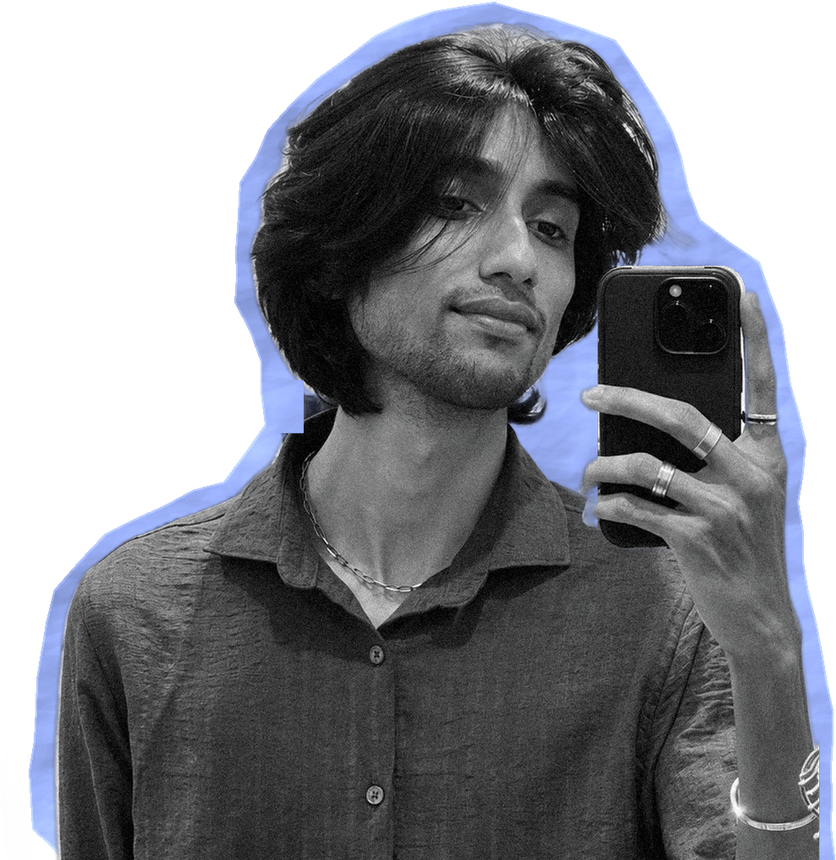
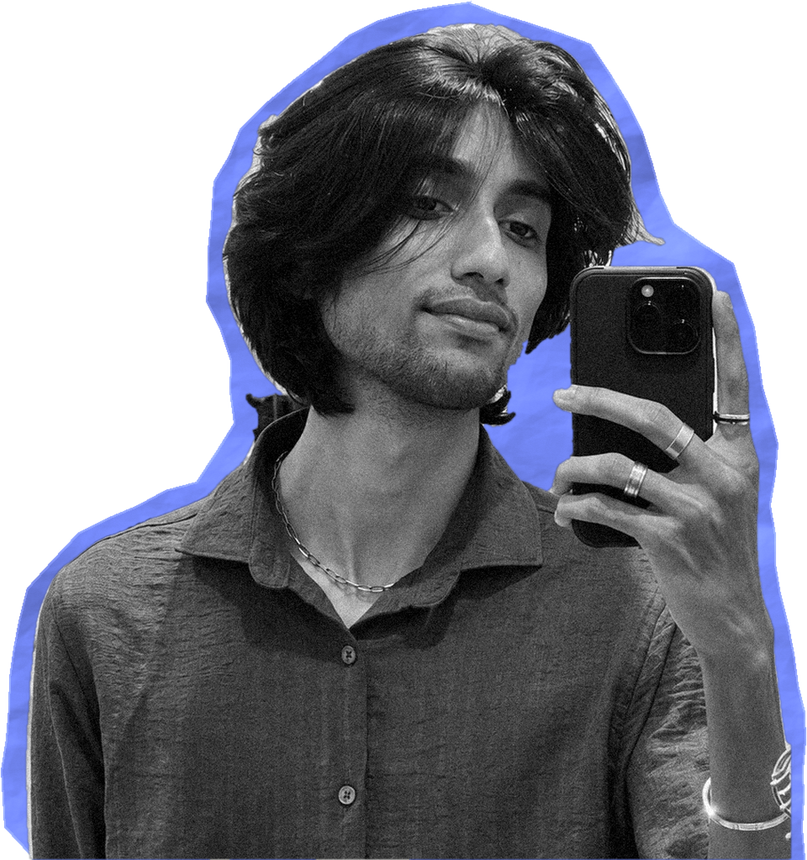
About collage: XM4 headphones replace the quote, Lana with hearts, brand-soft paper, rebalanced layout
Claude-Session: https://claude.ai/code/session_017r7Vu9Yd1wf2hX6fqKv751

diff --git a/index.html b/index.html
@@ -48,7 +48,7 @@
       <p>Over the years, I’ve worked across B2C and SaaS, designing products that help people get things done better. More recently, I’ve been exploring AI-powered products and how to make complex technology feel simpler, more intuitive, and human.</p>
       <p>When I’m not designing, you’ll find me behind a camera, rage-queuing Valorant, watching anime, or going down random rabbit holes.</p>
     </div>
-    <figure class="portrait cl rv" aria-label="A sticker board of things Kaushik likes"><img class="cl-paper" src="assets/about/paper.jpg" alt="" loading="lazy"><img class="cl-me" src="assets/about/me.png" alt="Kaushik, mirror selfie" loading="lazy"><span class="cl-s cl-cut" style="--x:0%;--y:1%;--w:29cqw;--r:-6deg;--d:0.0s" title="Lana Del Rey"><img src="assets/about/lana.png" alt="Lana Del Rey" loading="lazy"></span><span class="cl-s cl-cut" style="--x:70%;--y:2%;--w:30cqw;--r:8deg;--d:0.6s" title="Sony α7 III"><img src="assets/about/a7.png" alt="Sony α7 III" loading="lazy"></span><span class="cl-s cl-cut" style="--x:0%;--y:24%;--w:33cqw;--r:-7deg;--d:0.9s" title="Call Me by Your Name · on vinyl"><img src="assets/about/vinyl.png" alt="Call Me by Your Name · on vinyl" loading="lazy"></span><span class="cl-s cl-cut" style="--x:69%;--y:19%;--w:31cqw;--r:-5deg;--d:1.3s" title="Jujutsu Kaisen · Gojo"><img src="assets/about/gojo.png" alt="Jujutsu Kaisen · Gojo" loading="lazy"></span><span class="cl-s cl-cut" style="--x:0%;--y:47%;--w:31cqw;--r:5deg;--d:1.6s" title="The Motorcycle Diaries"><img src="assets/about/md.png" alt="The Motorcycle Diaries" loading="lazy"></span><span class="cl-s cl-cut" style="--x:76%;--y:56%;--w:24cqw;--r:6deg;--d:2.1s" title="A. R. Rahman"><img src="assets/about/arr.png" alt="A. R. Rahman" loading="lazy"></span><span class="cl-s cl-cut" style="--x:0%;--y:73%;--w:44cqw;--r:4deg;--d:1.1s" title="Porsche 911 · Singer"><img src="assets/about/singer.png" alt="Porsche 911 · Singer" loading="lazy"></span><span class="cl-s cl-cut" style="--x:43%;--y:79%;--w:23cqw;--r:-6deg;--d:0.5s" title="Air Jordan"><img src="assets/about/jump.png" alt="Air Jordan" loading="lazy"></span><span class="cl-s cl-cut" style="--x:75%;--y:82%;--w:21cqw;--r:-8deg;--d:1.9s" title="Manchester United"><img src="assets/about/mufc.png" alt="Manchester United" loading="lazy"></span><blockquote class="cl-q"><span aria-hidden="true">“</span><em>I’ve got this life,</em><em>and the will to show</em></blockquote></figure>
+    <figure class="portrait cl rv" aria-label="A sticker board of things Kaushik likes"><img class="cl-paper" src="assets/about/paper.jpg" alt="" loading="lazy"><img class="cl-me" src="assets/about/me.png" alt="Kaushik, mirror selfie" loading="lazy"><span class="cl-s cl-cut" style="--x:69%;--y:54%;--w:29cqw;--r:6deg;--d:0.6s" title="Sony α7 III"><img src="assets/about/a7.png" alt="Sony α7 III" loading="lazy"></span><span class="cl-s cl-cut" style="--x:0%;--y:0%;--w:30cqw;--r:-5deg;--d:0.0s" title="Lana Del Rey"><img src="assets/about/lana.png" alt="Lana Del Rey" loading="lazy"></span><span class="cl-s cl-cut" style="--x:66%;--y:2%;--w:31cqw;--r:6deg;--d:1.3s" title="Jujutsu Kaisen · Gojo"><img src="assets/about/gojo.png" alt="Jujutsu Kaisen · Gojo" loading="lazy"></span><span class="cl-s cl-cut" style="--x:75%;--y:31%;--w:21cqw;--r:-6deg;--d:0.5s" title="Air Jordan"><img src="assets/about/jump.png" alt="Air Jordan" loading="lazy"></span><span class="cl-s cl-cut" style="--x:0%;--y:53%;--w:28cqw;--r:-6deg;--d:0.9s" title="Call Me by Your Name · on vinyl"><img src="assets/about/vinyl.png" alt="Call Me by Your Name · on vinyl" loading="lazy"></span><span class="cl-s cl-cut" style="--x:37%;--y:2%;--w:25cqw;--r:-4deg;--d:1.4s" title="Sony WH-1000XM4"><img src="assets/about/xm.png" alt="Sony WH-1000XM4" loading="lazy"></span><span class="cl-s cl-cut" style="--x:0%;--y:23%;--w:34cqw;--r:-5deg;--d:1.6s" title="The Motorcycle Diaries"><img src="assets/about/md.png" alt="The Motorcycle Diaries" loading="lazy"></span><span class="cl-s cl-cut" style="--x:0%;--y:77%;--w:42cqw;--r:4deg;--d:1.1s" title="Porsche 911 · Singer"><img src="assets/about/singer.png" alt="Porsche 911 · Singer" loading="lazy"></span><span class="cl-s cl-cut" style="--x:49.3%;--y:78%;--w:17cqw;--r:-7deg;--d:1.9s" title="Manchester United"><img src="assets/about/mufc.png" alt="Manchester United" loading="lazy"></span><span class="cl-s cl-cut" style="--x:74%;--y:75%;--w:23cqw;--r:5deg;--d:2.1s" title="A. R. Rahman"><img src="assets/about/arr.png" alt="A. R. Rahman" loading="lazy"></span></figure>
   </div>
 </section>
 
